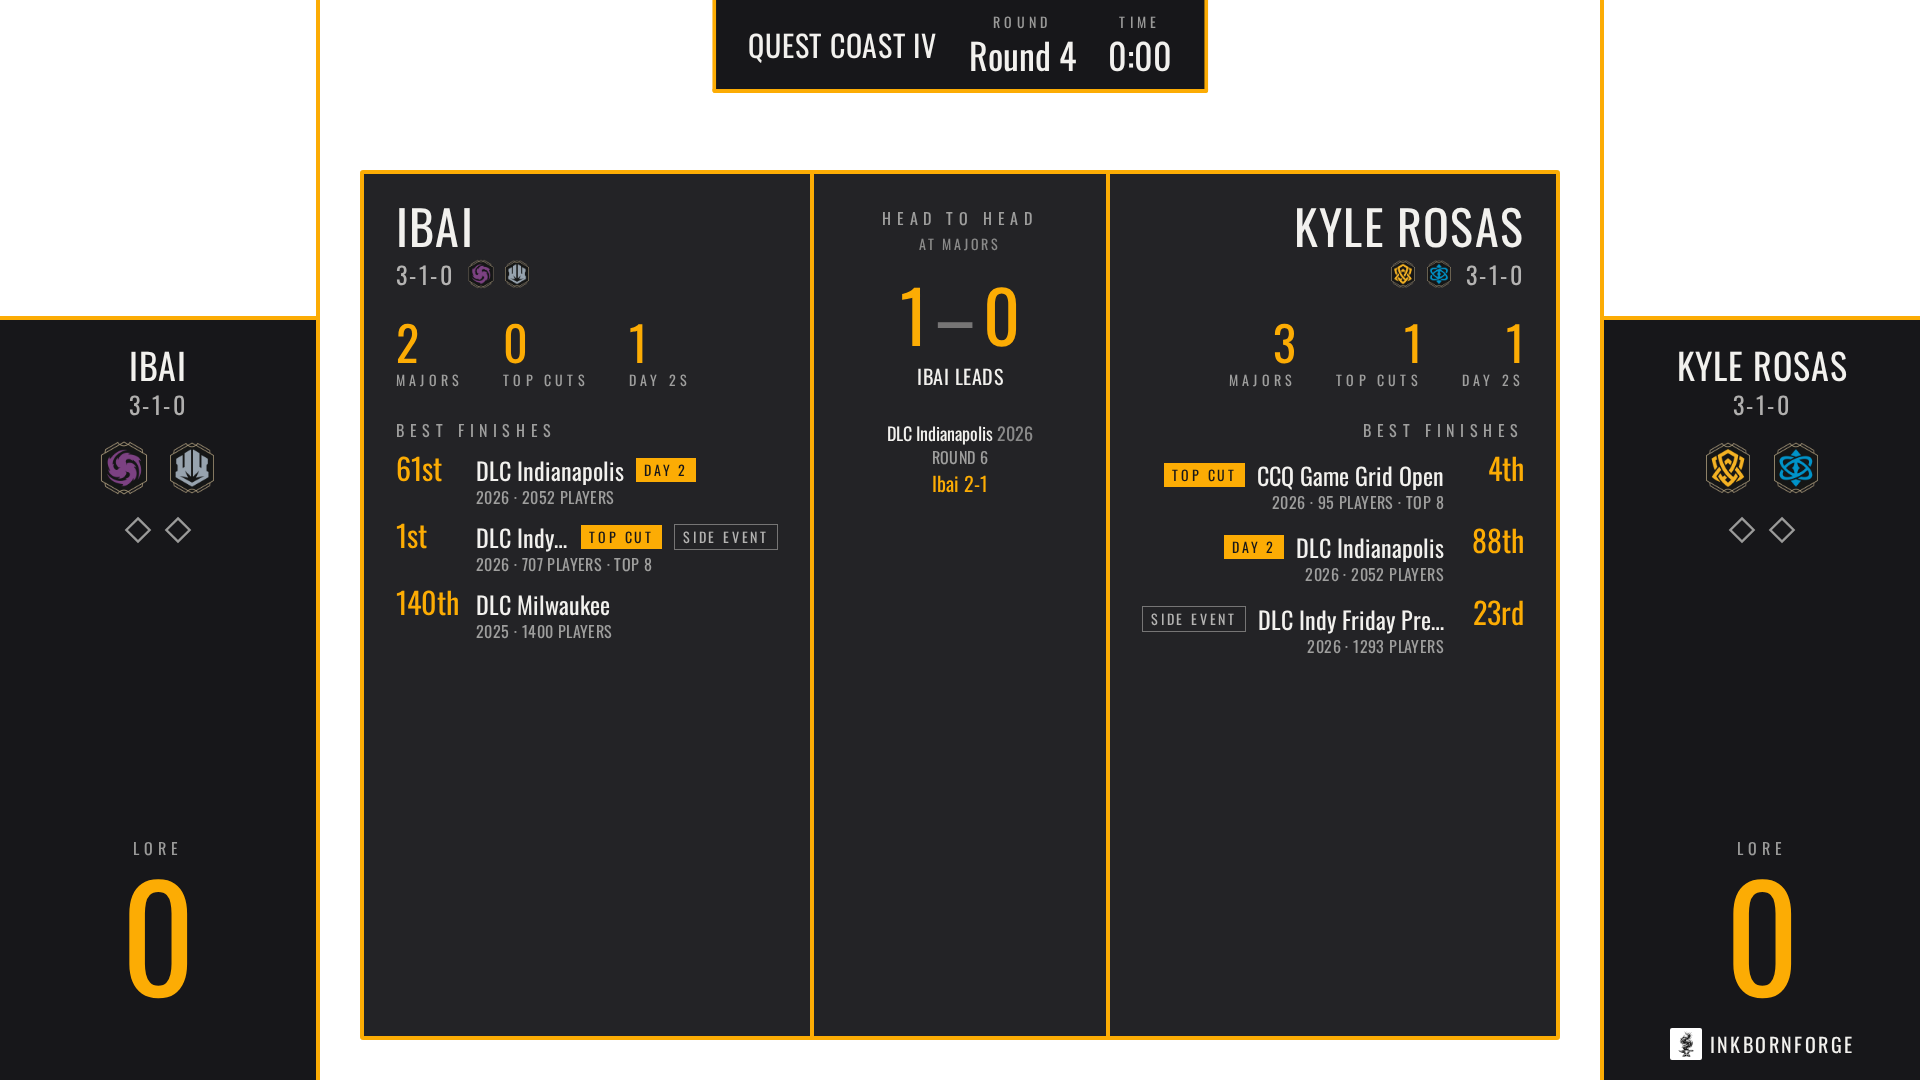
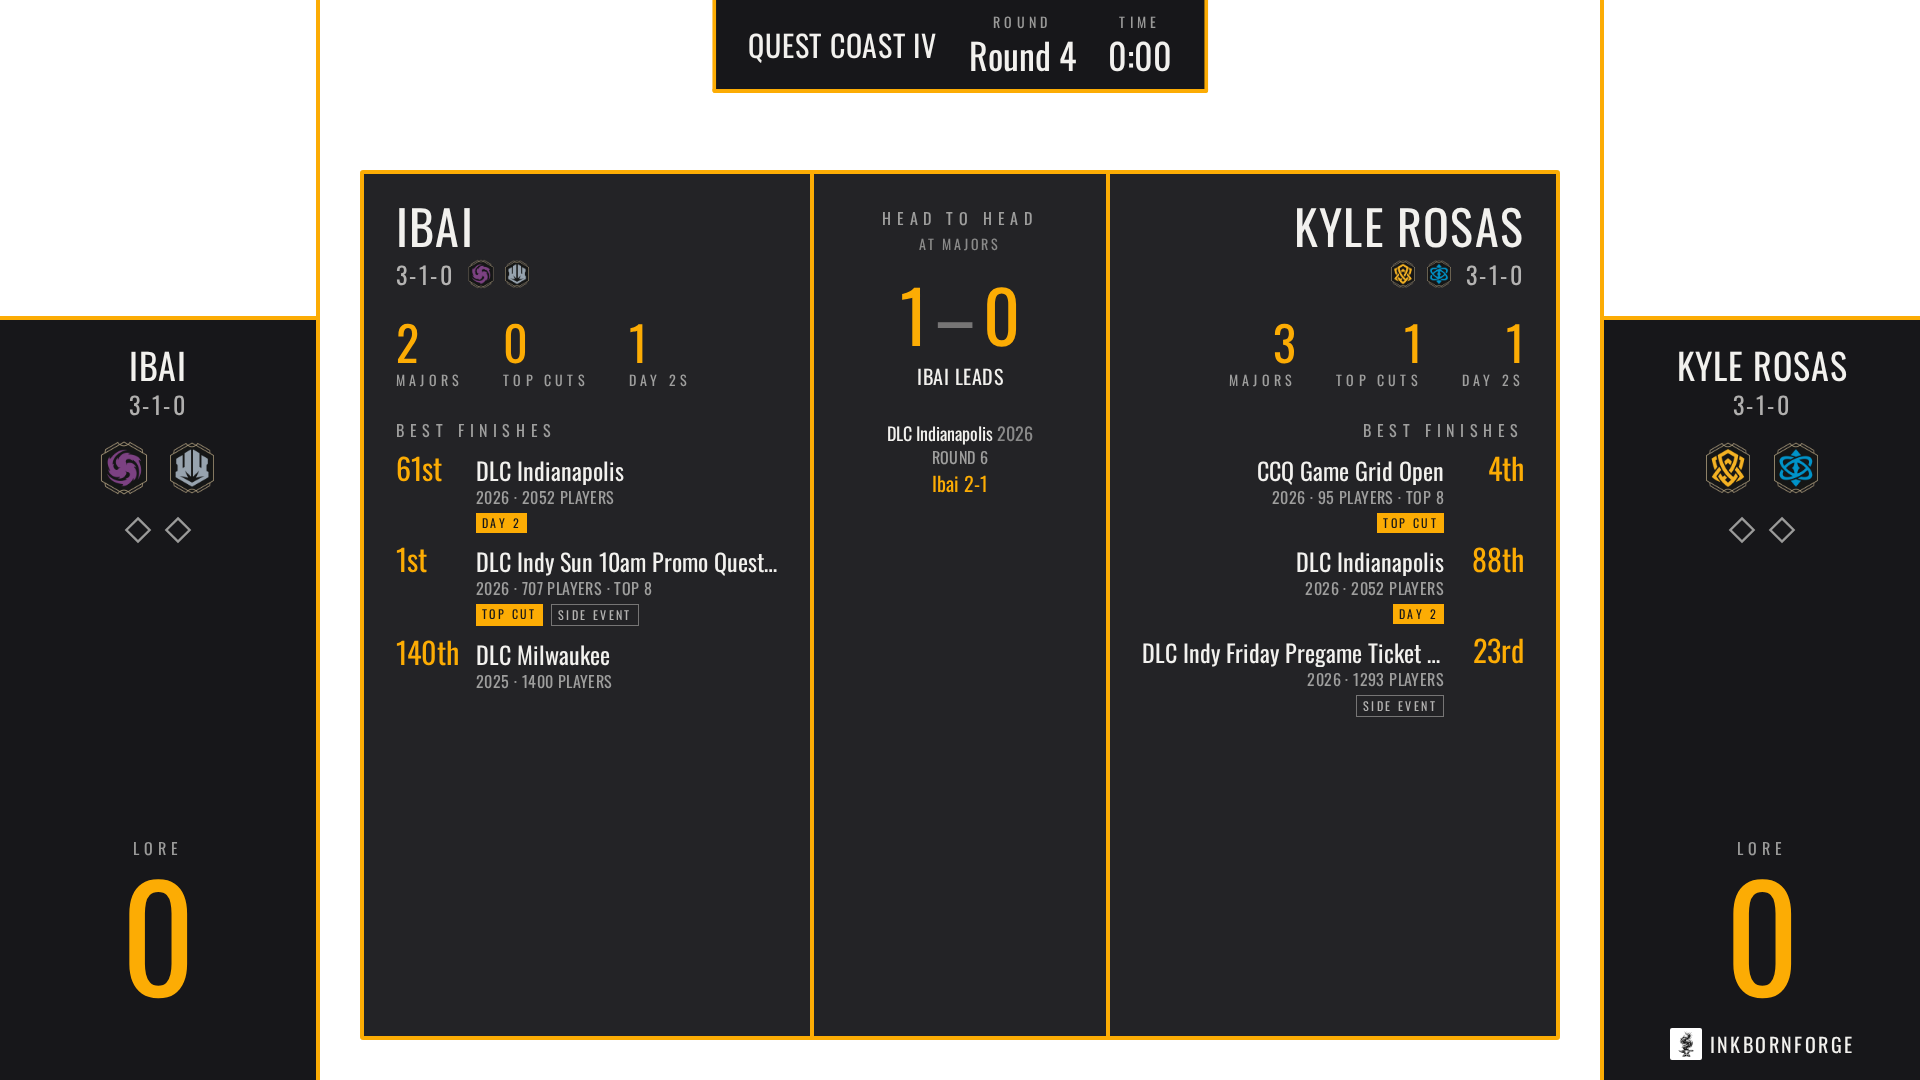
Stream Overlay player card: finish tags under the date line, smaller
The Top cut / Day 2 / Side event tags move below the year and player
count on their own line at the small size, so the event name keeps the
full width and a long side-event name truncates less.

Claude-Session: https://claude.ai/code/session_01PuhSUkhQdqWYCWVwuEZRoD

Changed region(s): [[0.5938, 0.4278, 0.8125, 0.6722], [0.1875, 0.4583, 0.4062, 0.6417], [0.3125, 0.4278, 0.375, 0.4583]]

diff --git a/src/pages/StreamOverlayViewPage.jsx b/src/pages/StreamOverlayViewPage.jsx
@@ -243,14 +243,16 @@ function PlayerHalf({ player, history, align }) {
           <div key={i} className={`flex items-baseline gap-4 ${right ? 'flex-row-reverse' : ''}`}>
             <span className="text-3xl text-(--accent) tabular-nums w-16 shrink-0" style={{ textAlign: align }}>{ordinal(f.rank)}</span>
             <span className="min-w-0">
-              <span className={`flex items-center gap-3 ${right ? 'flex-row-reverse' : ''}`}>
-                <span className="text-2xl leading-tight truncate min-w-0">{f.event}</span>
-                {f.tier && <span className="shrink-0 text-sm uppercase tracking-[0.2em] px-2 py-0.5 bg-(--accent) text-(--fill)">{TIER_LABEL[f.tier]}</span>}
-                {f.side && <span className="shrink-0 text-sm uppercase tracking-[0.2em] px-2 py-0.5 border border-(--on-fill)/40 text-(--on-fill)/70">Side event</span>}
-              </span>
-              <span className="text-base text-(--on-fill)/60 uppercase tracking-wide">
+              <span className="text-2xl leading-tight block truncate">{f.event}</span>
+              <span className="text-base text-(--on-fill)/60 uppercase tracking-wide block">
                 {[f.year, f.players && `${f.players} players`, f.tier === 'cut' && f.topCutSize && `top ${f.topCutSize}`].filter(Boolean).join(' · ')}
               </span>
+              {(f.tier || f.side) && (
+                <span className={`mt-1 flex gap-2 ${right ? 'flex-row-reverse' : ''}`}>
+                  {f.tier && <span className="text-xs uppercase tracking-[0.2em] px-1.5 py-0.5 bg-(--accent) text-(--fill)">{TIER_LABEL[f.tier]}</span>}
+                  {f.side && <span className="text-xs uppercase tracking-[0.2em] px-1.5 py-0.5 border border-(--on-fill)/40 text-(--on-fill)/70">Side event</span>}
+                </span>
+              )}
             </span>
           </div>
         ))}
